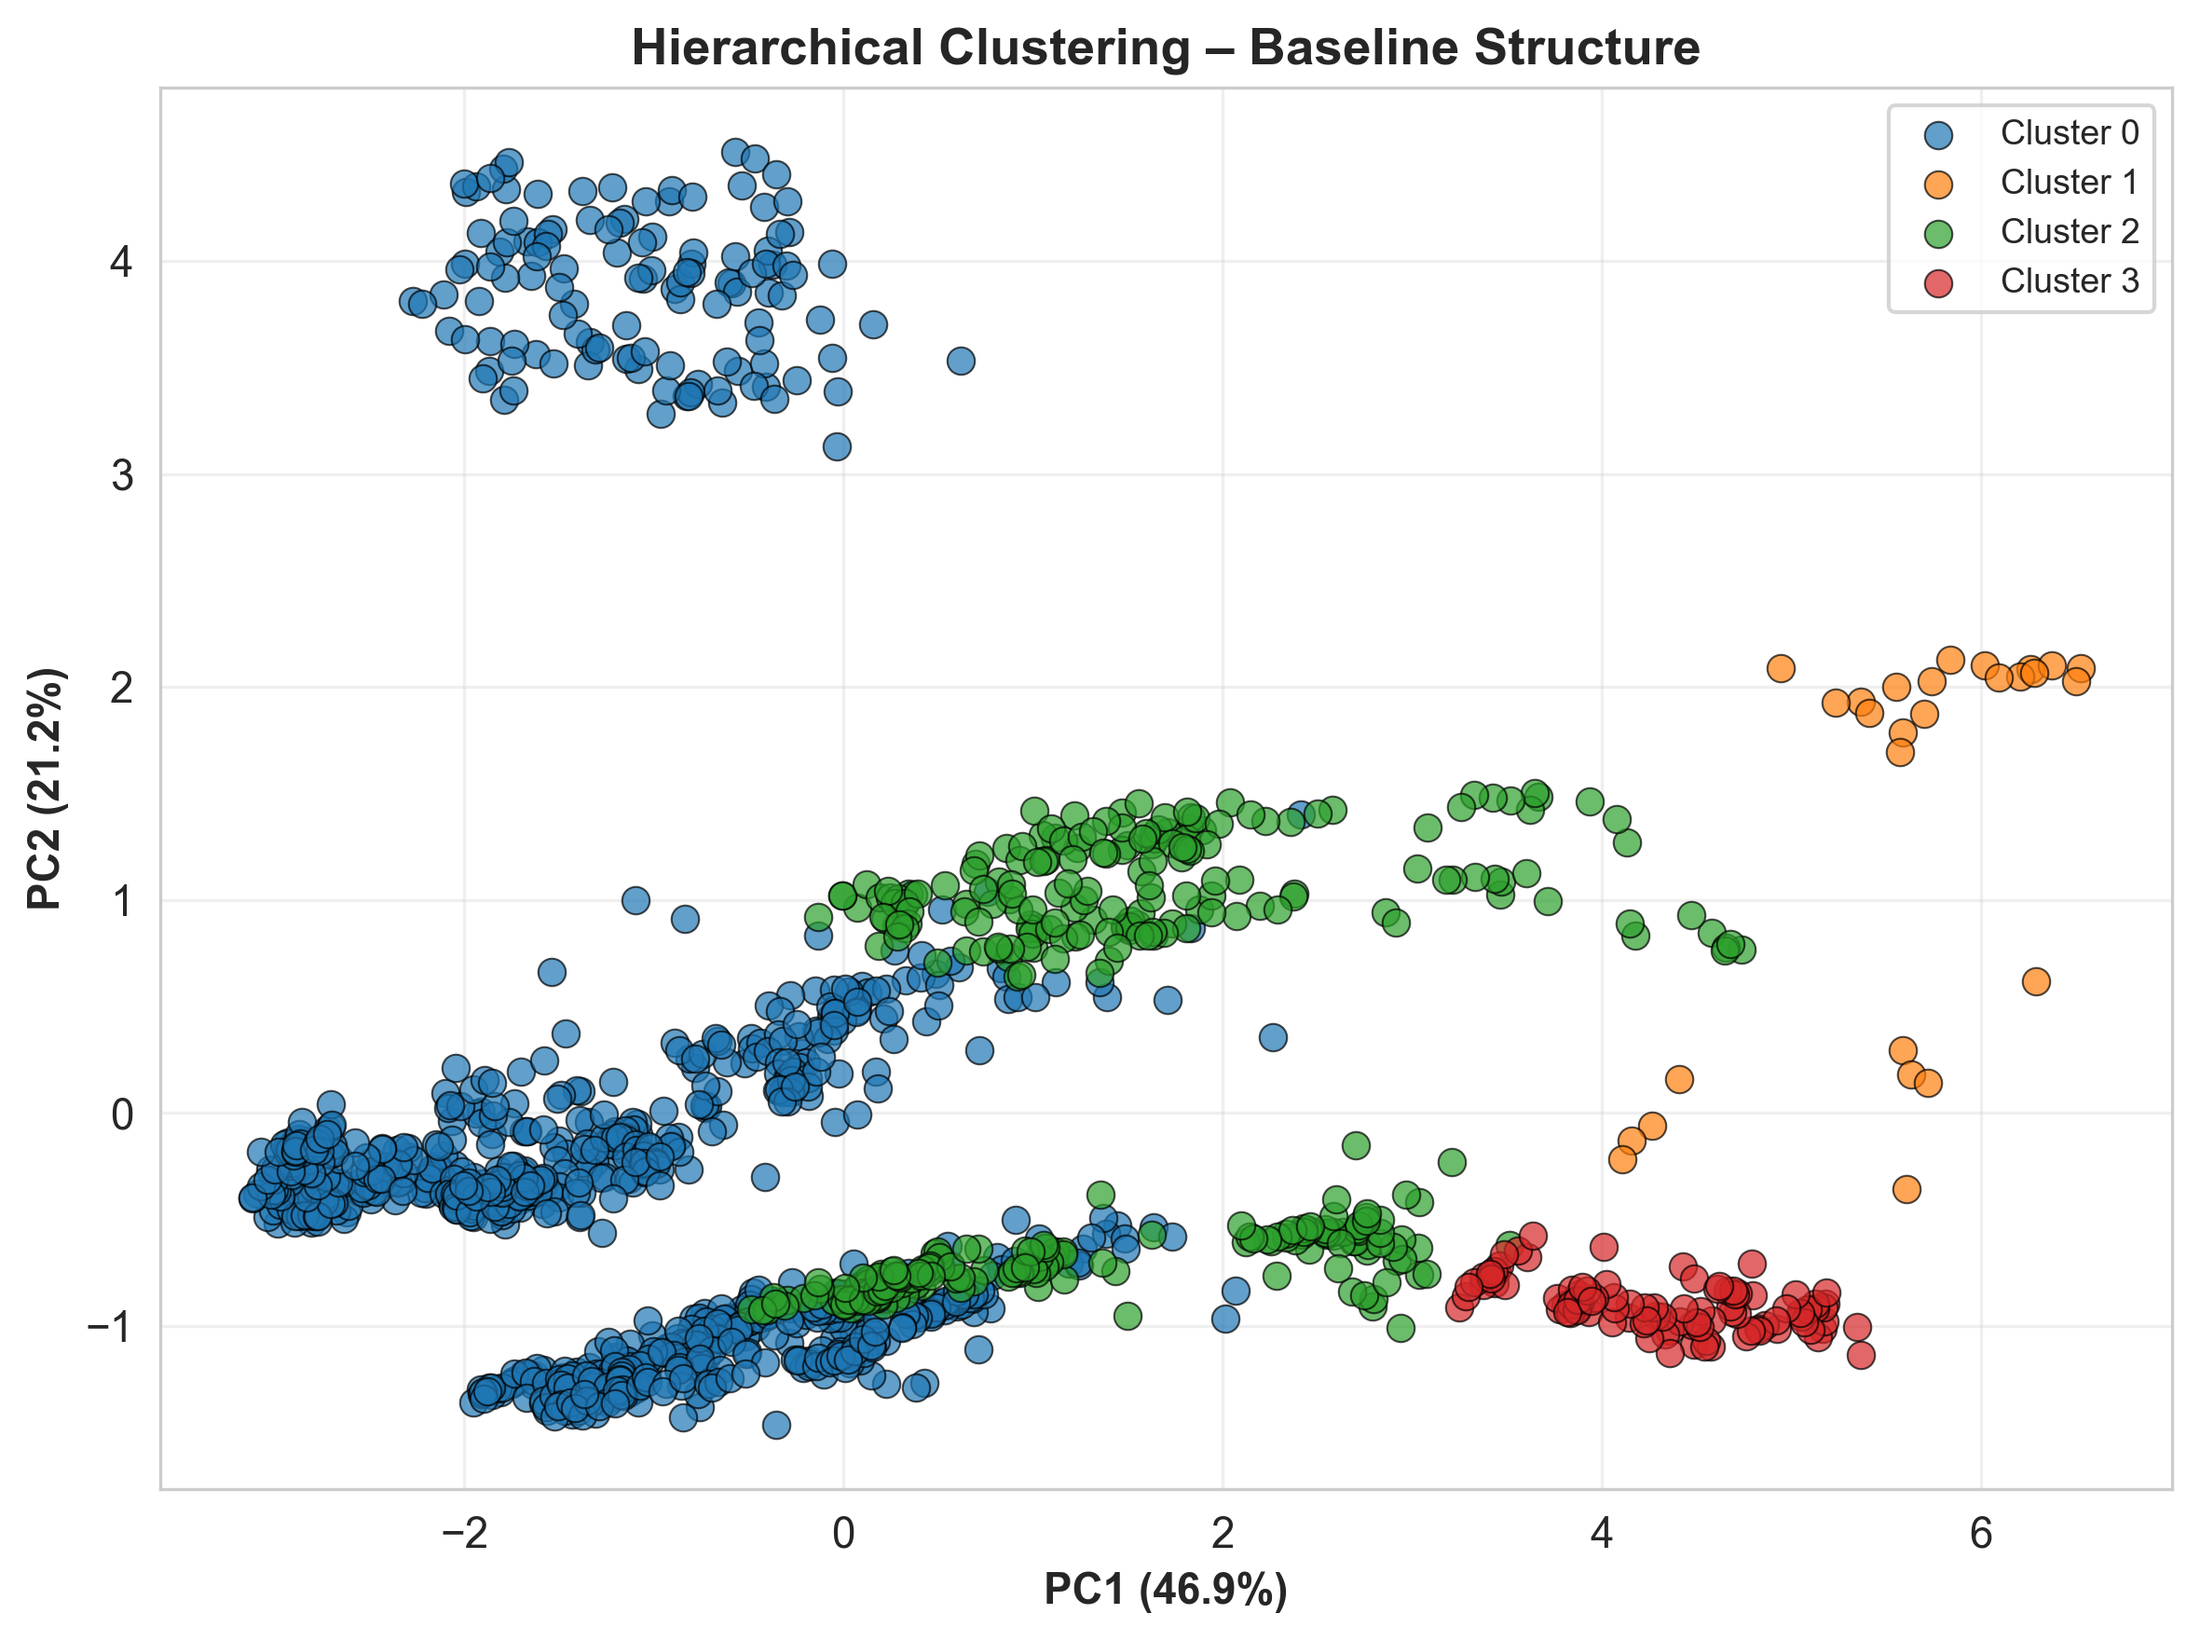
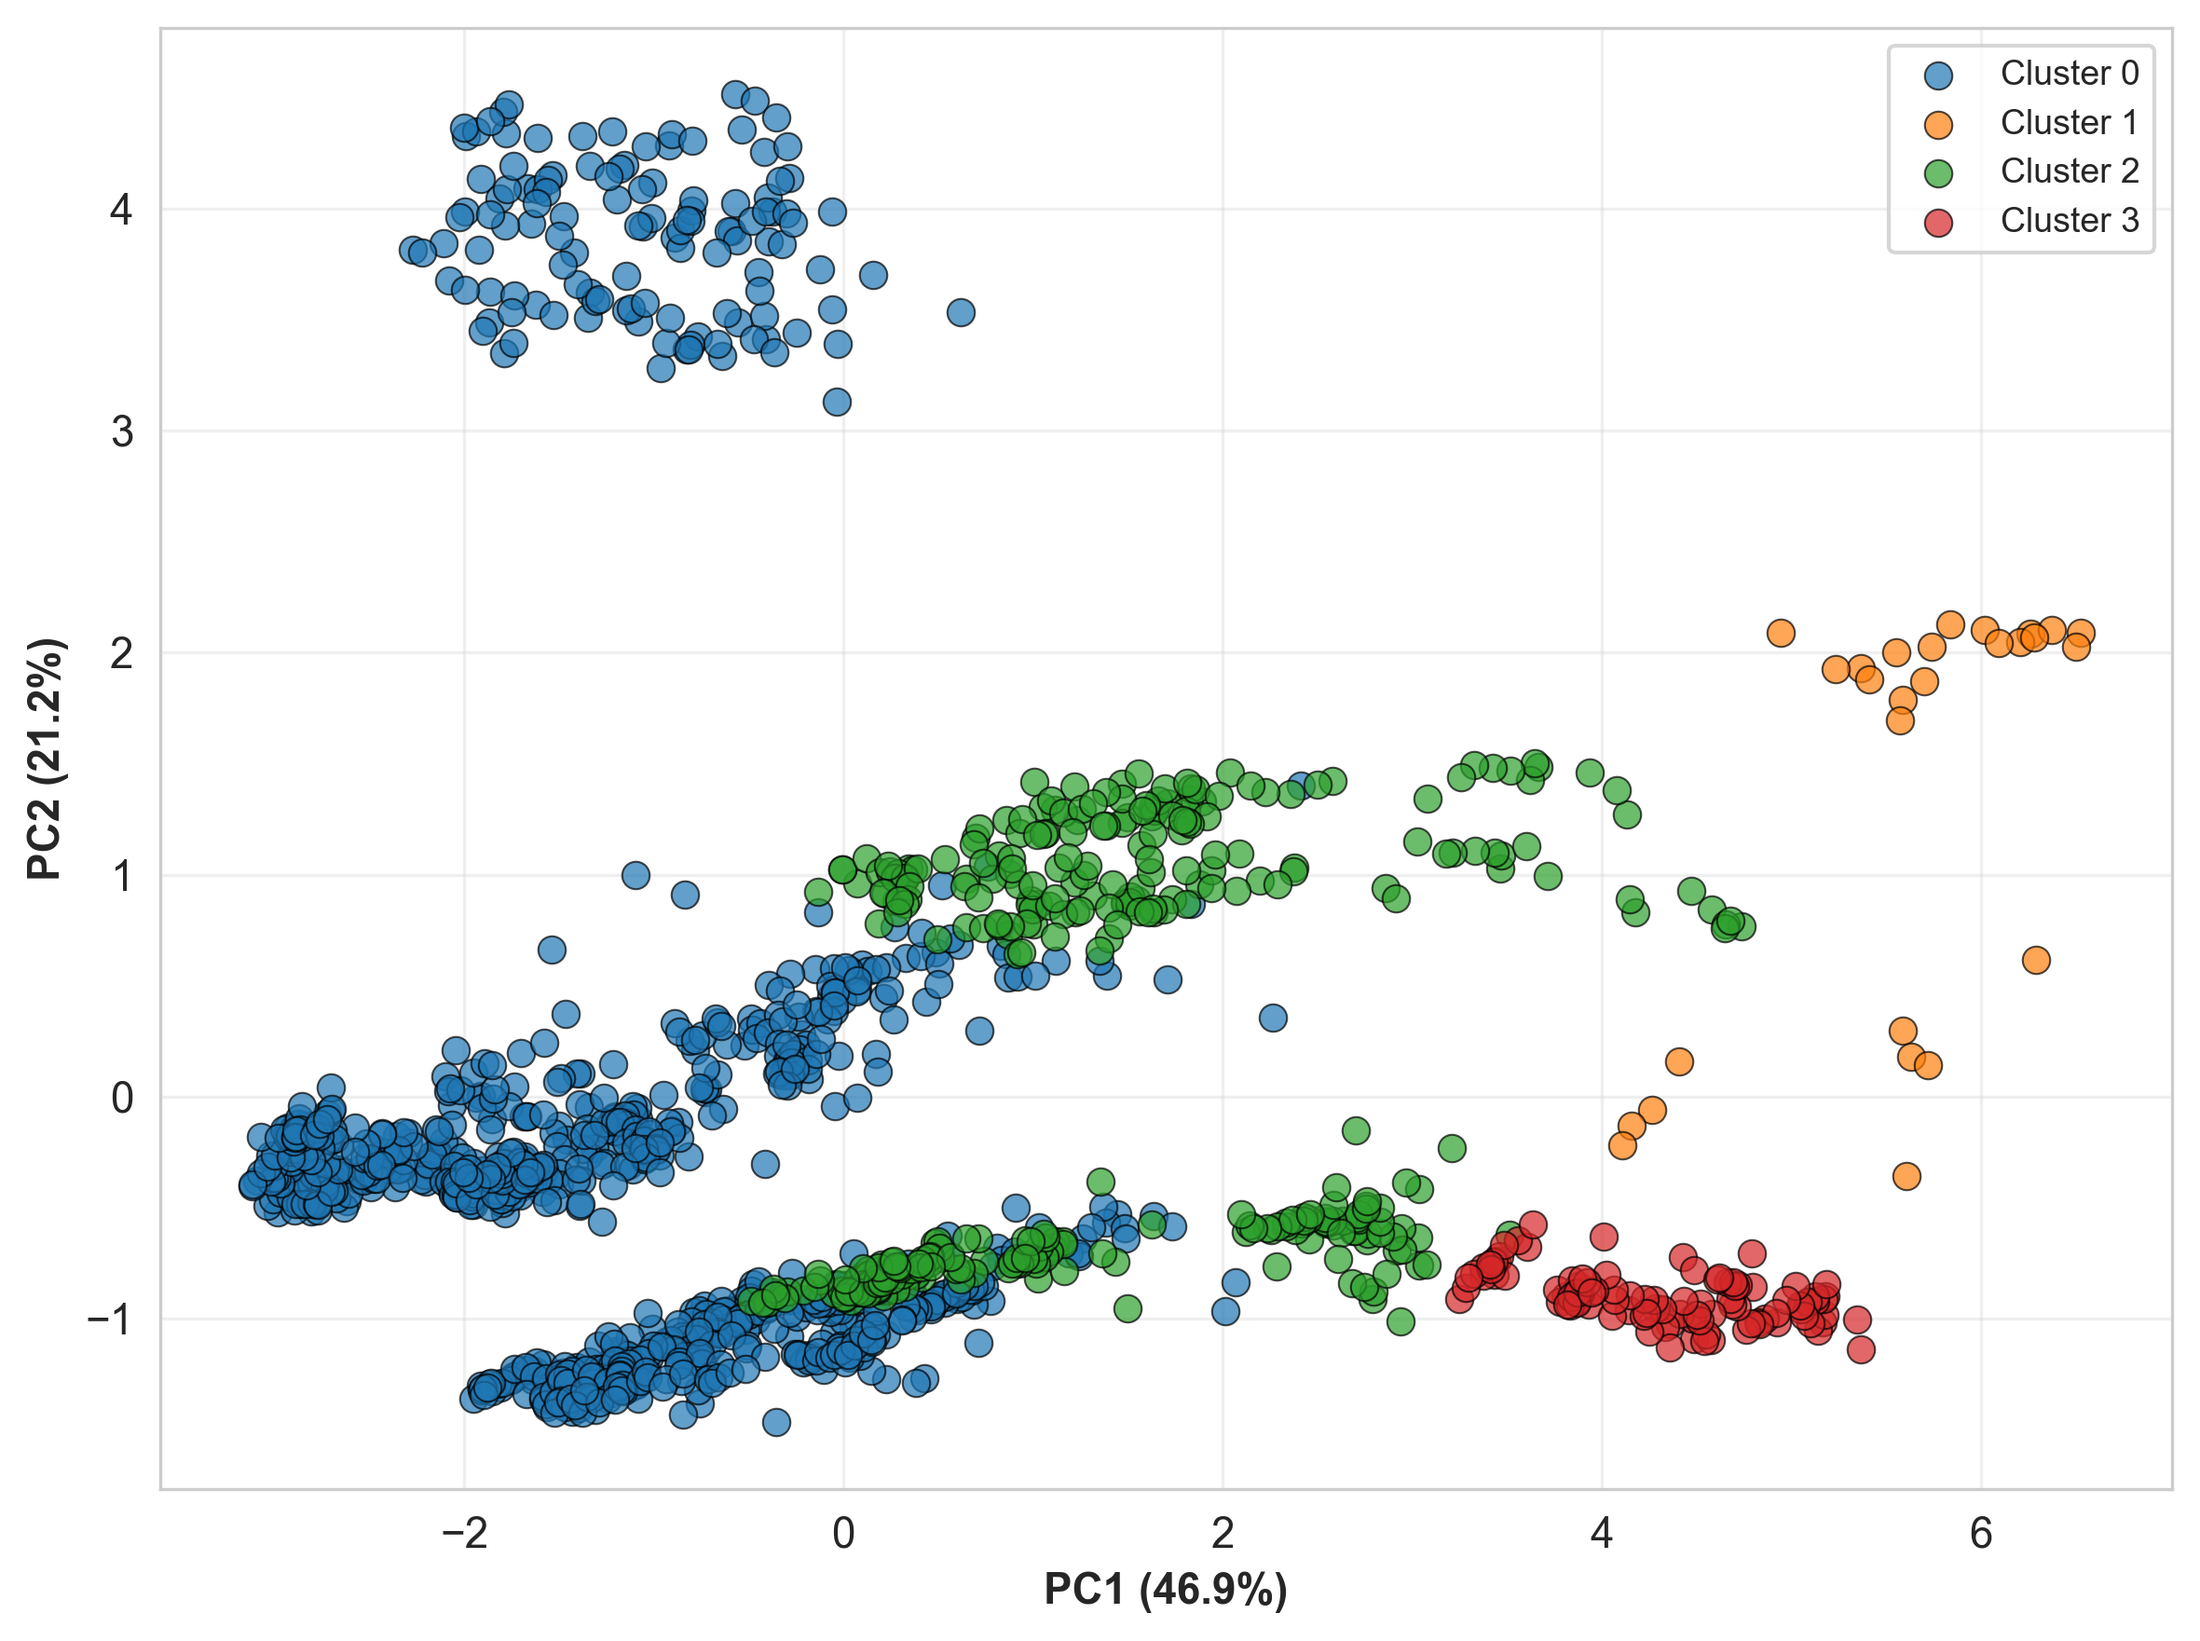
Remove paper-style plot titles from clustering visualizations
Eliminated custom plot titles for kmeans, dbscan, and hierarchical clustering methods in cluster.py to simplify visualization output. Updated corresponding cluster result images to reflect this change.

diff --git a/clustering/cluster.py b/clustering/cluster.py
@@ -429,13 +429,6 @@ class TransportClustering:
         ax.legend(loc='best', fontsize=9)
         ax.grid(True, alpha=0.3)
 
-        # Paper-style plot titles
-        if method == "kmeans":
-            ax.set_title("K-Means Clustering – Global Demand Regimes", fontweight='bold')
-        elif method == "dbscan":
-            ax.set_title("DBSCAN Clustering – Density-Based Travel Regimes", fontweight='bold')
-        elif method == "hierarchical":
-            ax.set_title("Hierarchical Clustering – Baseline Structure", fontweight='bold')
 
         plt.tight_layout()
         plt.savefig(f"{self.output_dir}/{method}_clusters.png", dpi=300, bbox_inches='tight')
